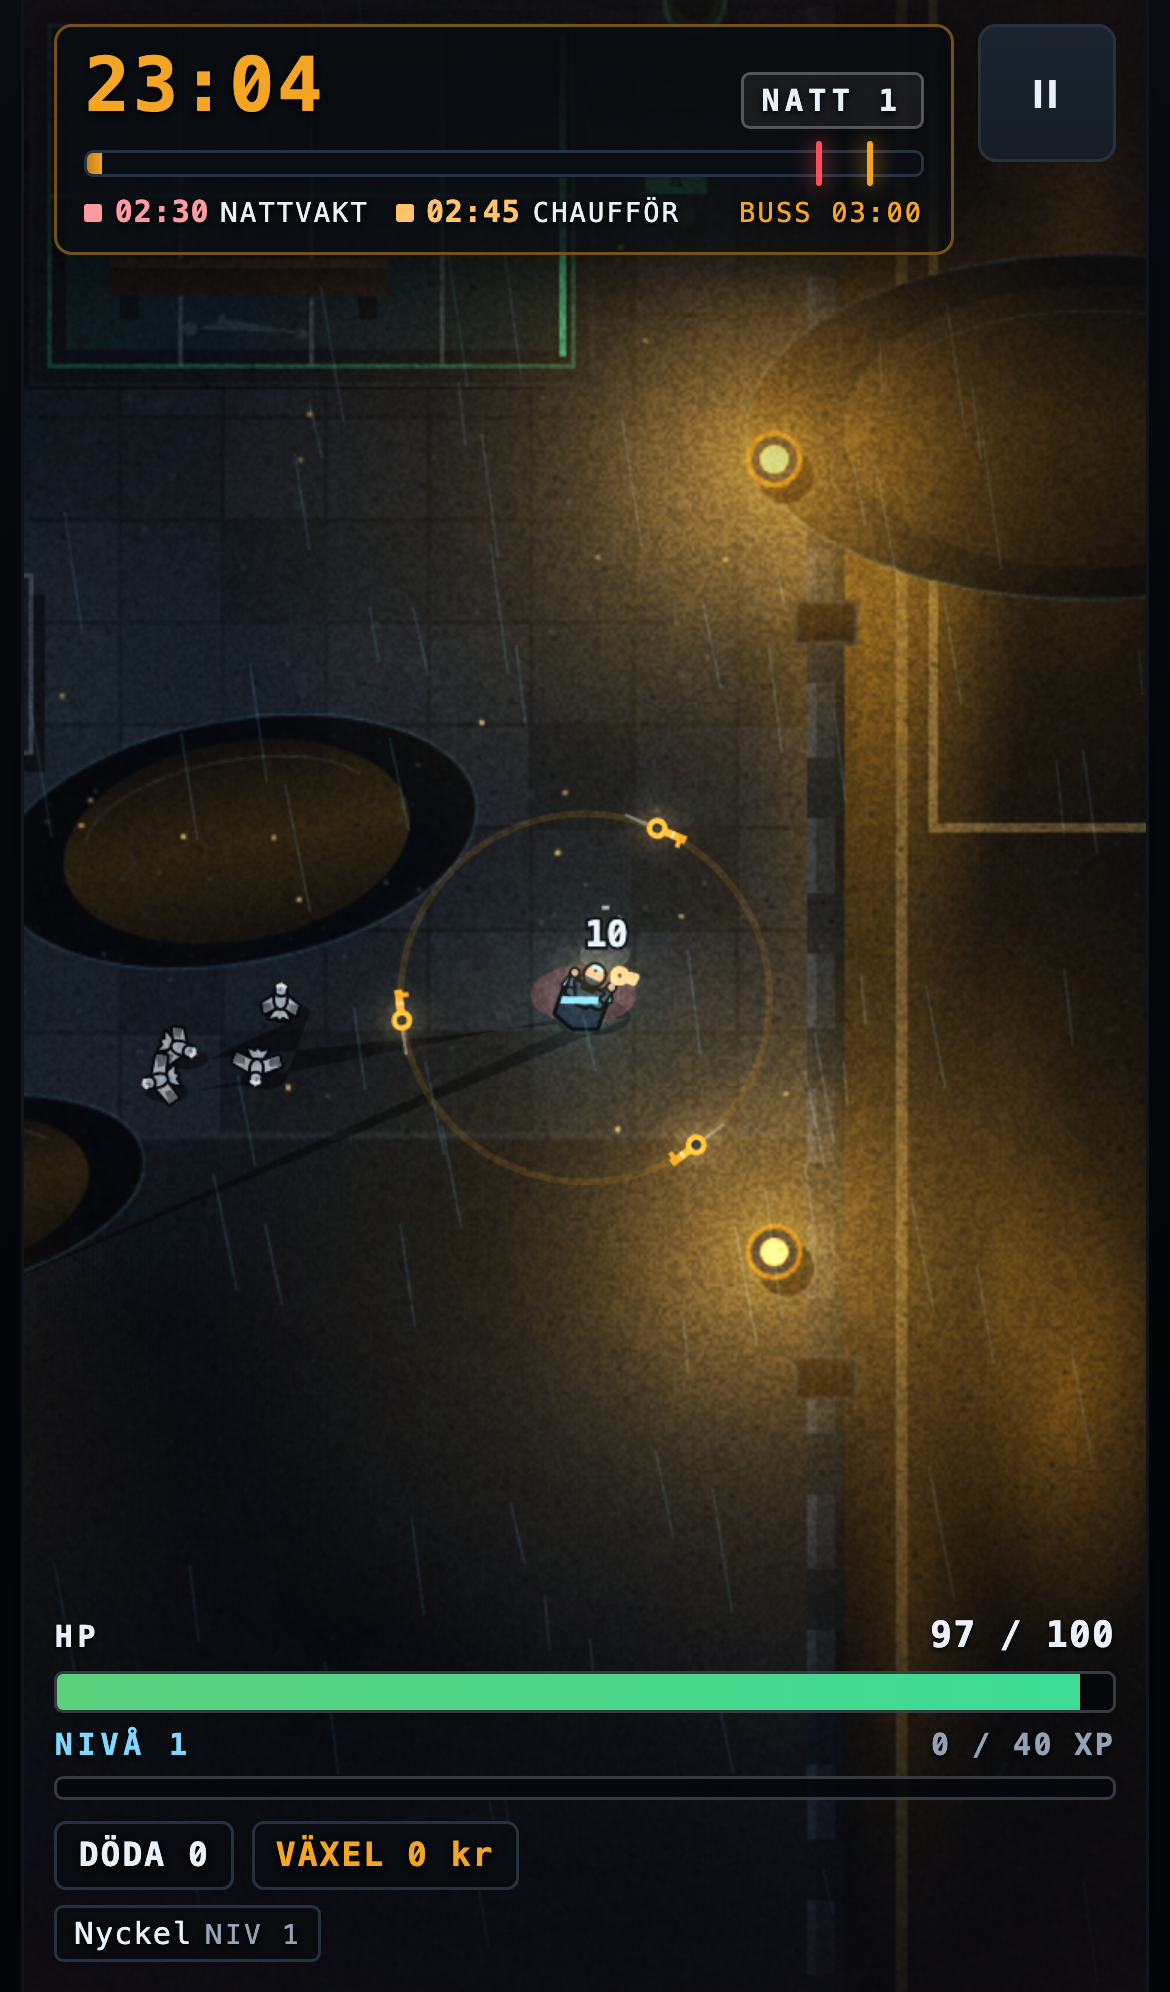
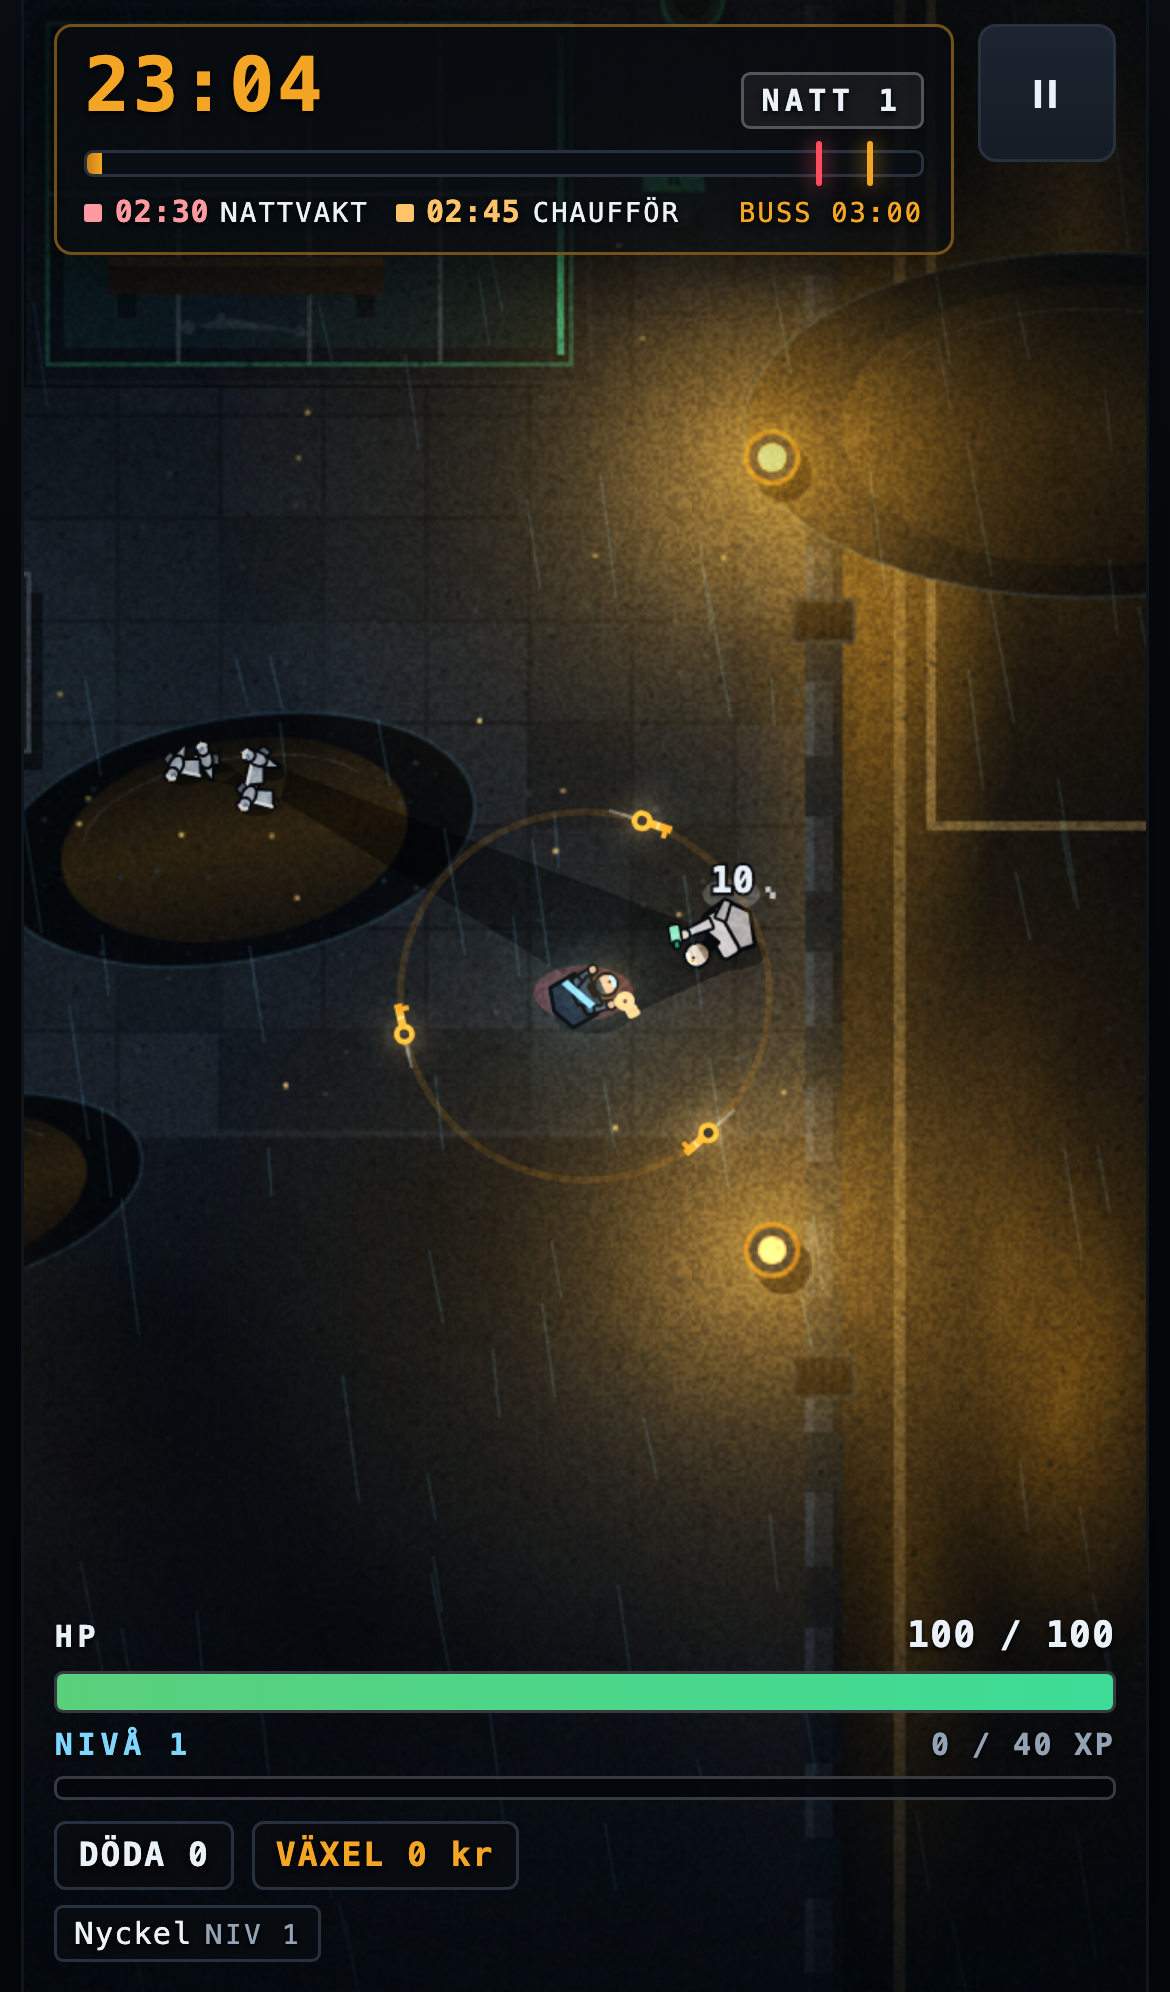
build: multi-stage Dockerfile serving dist via nginx
Replace the Coolify "static" build pack, which never ran a build step and
shipped a container with no dist/ (gitignored) in it.

- Dockerfile: node:22-alpine builds with `npm ci` + `npm run build`, then
  copies only dist/ into nginx:alpine. No node, sources or node_modules in
  the runtime image.
- docker/nginx.conf: SPA fallback, explicit application/manifest+json for
  .webmanifest and image/png for .png, no-cache on sw.js/index.html/manifest,
  immutable caching for fingerprinted /assets/, gzip. Port 80 only, TLS stays
  with Coolify's Traefik.
- .dockerignore: keeps node_modules, dist, .git, screenshots and test output
  out of the build context.

Also swept in by `git add -A`: in-progress render tweak to src/render/entities.ts
and the regenerated screenshots that were already dirty in the tree.

diff --git a/src/render/entities.ts b/src/render/entities.ts
@@ -292,37 +292,39 @@ function drawDuva(ctx: CanvasRenderingContext2D, e: Enemy, d: Draw, flash: boole
   const flap = Math.sin(d.t * 17 + e.phase);
   const up = 1 + flap * 0.22;
 
-  // Notched fan tail.
+  // At an 18px world footprint only one wing can be drawn without the bird
+  // turning into a fan of spikes. A short single-point tail plus one raised
+  // wing and one dark tucked wing gives an asymmetric read: bird, not debris.
   ctx.beginPath();
-  ctx.moveTo(-0.36 * r, -0.2 * r);
-  ctx.lineTo(-0.86 * r, -0.46 * r);
-  ctx.lineTo(-0.74 * r, -0.14 * r);
-  ctx.lineTo(-0.9 * r, 0);
-  ctx.lineTo(-0.74 * r, 0.14 * r);
-  ctx.lineTo(-0.86 * r, 0.46 * r);
-  ctx.lineTo(-0.36 * r, 0.2 * r);
+  ctx.moveTo(-0.4 * r, -0.18 * r);
+  ctx.lineTo(-0.92 * r, 0);
+  ctx.lineTo(-0.4 * r, 0.18 * r);
   ctx.closePath();
   seal(ctx, p.body, p.outline, 1 * inv);
 
-  // Wings: broad, swept back, pointed.
-  for (let s = -1; s <= 1; s += 2) {
-    ctx.beginPath();
-    ctx.moveTo(0.36 * r, s * 0.1 * r);
-    ctx.lineTo(-0.16 * r, s * 1.0 * r * up);
-    ctx.lineTo(-0.62 * r, s * 0.86 * r * up);
-    ctx.lineTo(-0.3 * r, s * 0.16 * r);
-    ctx.closePath();
-    seal(ctx, p.body, p.outline, 1 * inv);
-    // Dark outer third: kills the flat-delta read.
-    ctx.beginPath();
-    ctx.moveTo(-0.1 * r, s * 0.5 * r * up);
-    ctx.lineTo(-0.16 * r, s * 1.0 * r * up);
-    ctx.lineTo(-0.62 * r, s * 0.86 * r * up);
-    ctx.lineTo(-0.4 * r, s * 0.5 * r * up);
-    ctx.closePath();
-    ctx.fillStyle = p.shade;
-    ctx.fill();
-  }
+  // Far wing, tucked and in shadow: small, behind the body.
+  ctx.beginPath();
+  ctx.moveTo(0.3 * r, 0.08 * r);
+  ctx.lineTo(0.02 * r, 0.62 * r);
+  ctx.lineTo(-0.34 * r, 0.5 * r);
+  ctx.lineTo(-0.14 * r, 0.08 * r);
+  ctx.closePath();
+  seal(ctx, p.shade, p.outline, 0.9 * inv);
+
+  // Near wing, raised: one clean wedge with a lit leading edge.
+  ctx.beginPath();
+  ctx.moveTo(0.3 * r, -0.06 * r);
+  ctx.lineTo(0.08 * r, -1.08 * r * up);
+  ctx.lineTo(-0.56 * r, -0.8 * r * up);
+  ctx.lineTo(-0.2 * r, -0.08 * r);
+  ctx.closePath();
+  seal(ctx, p.body, p.outline, 1 * inv);
+  ctx.beginPath();
+  ctx.moveTo(0.3 * r, -0.06 * r);
+  ctx.lineTo(0.08 * r, -1.08 * r * up);
+  ctx.strokeStyle = p.rim;
+  ctx.lineWidth = 1.1 * inv;
+  ctx.stroke();
 
   // Body, then the head, beak and eye.
   ctx.beginPath();
@@ -443,46 +445,45 @@ function drawVaktmastare(
     ctx.restore();
   }
 
-  // Uniform coat: square, wide, with a hard hem.
+  // Uniform coat: wide at the shoulders, hard hem, neck notch. A narrow slab
+  // with a face inside reads as a badge; the shoulder span makes it a person.
   ctx.beginPath();
-  ctx.moveTo(0.34 * r, -0.56 * r);
-  ctx.lineTo(-0.42 * r, -0.66 * r);
-  ctx.lineTo(-0.46 * r, 0.68 * r);
-  ctx.lineTo(0.32 * r, 0.58 * r);
+  ctx.moveTo(0.3 * r, -0.56 * r);
+  ctx.lineTo(-0.52 * r, -0.7 * r);
+  ctx.lineTo(-0.58 * r, 0.68 * r);
+  ctx.lineTo(0.24 * r, 0.6 * r);
   ctx.closePath();
   seal(ctx, p.shell, p.outline, 1.4 * inv);
 
-  // Shoulder bar and arms.
-  plate(ctx, -0.14 * r, -0.72 * r, 0.42 * r, 1.44 * r, 0.1 * r, p.body, p.outline, 1.2 * inv);
-  const by = winding ? -0.82 * r : 0.6 * r;
-  taper(ctx, 0.1 * r, 0.5 * r, 0.56 * r, by, 0.13 * r, 0.08 * r, p.body, p.outline, 1 * inv);
-  taper(ctx, 0.08 * r, -0.5 * r, 0.42 * r, -0.6 * r, 0.12 * r, 0.07 * r, p.body, p.outline, 1 * inv);
+  // Shoulder bar, then two arms: broom arm forward, other arm at the side.
+  plate(ctx, -0.2 * r, -0.76 * r, 0.5 * r, 1.52 * r, 0.12 * r, p.body, p.outline, 1.1 * inv);
+  const by = winding ? -0.8 * r : 0.44 * r;
+  taper(ctx, 0.14 * r, 0.44 * r, 0.64 * r, by, 0.15 * r, 0.09 * r, p.body, p.outline, 1 * inv);
+  taper(ctx, 0.1 * r, -0.46 * r, 0.42 * r, -0.74 * r, 0.13 * r, 0.08 * r, p.body, p.outline, 1 * inv);
 
-  // Hi-vis bands across the chest: the type signature.
-  plate(ctx, -0.28 * r, -0.36 * r, 0.5 * r, 0.14 * r, 0.03 * r, p.kit, p.outline, 0.7 * inv);
-  plate(ctx, -0.28 * r, 0.22 * r, 0.5 * r, 0.14 * r, 0.03 * r, p.kit, p.outline, 0.7 * inv);
+  // Hi-vis bands across the back: the type signature, read as two bars.
+  plate(ctx, -0.44 * r, -0.34 * r, 0.46 * r, 0.12 * r, 0.03 * r, p.kit, p.outline, 0.6 * inv);
+  plate(ctx, -0.44 * r, 0.2 * r, 0.46 * r, 0.12 * r, 0.03 * r, p.kit, p.outline, 0.6 * inv);
   // Belt.
-  plate(ctx, -0.34 * r, 0.6 * r, 0.62 * r, 0.09 * r, 0.02 * r, p.shade, p.outline, 0);
+  plate(ctx, -0.5 * r, 0.56 * r, 0.66 * r, 0.09 * r, 0.02 * r, p.shade, p.outline, 0);
 
-  // Peaked cap behind the face, visor over it.
-  discSolid(ctx, 0.4 * r, 0, 0.3 * r, p.hatDeep, p.outline, 1.1 * inv);
-  headMass(ctx, 0.58 * r, 0, 0.23 * r, p, p.hatDeep, p.detail, inv);
+  // Peaked cap: crown from headMass, peak projecting past the head.
+  headMass(ctx, 0.8 * r, 0, 0.26 * r, p, p.hatDeep, p.detail, inv);
   ctx.beginPath();
-  ctx.moveTo(0.58 * r, -0.18 * r);
-  ctx.lineTo(0.92 * r, -0.03 * r);
-  ctx.lineTo(0.92 * r, 0.05 * r);
-  ctx.lineTo(0.58 * r, 0.16 * r);
+  ctx.moveTo(0.98 * r, -0.2 * r);
+  ctx.lineTo(1.3 * r, -0.04 * r);
+  ctx.lineTo(1.3 * r, 0.05 * r);
+  ctx.lineTo(0.98 * r, 0.16 * r);
   ctx.closePath();
-  ctx.fillStyle = p.hatDeep;
-  ctx.fill();
+  seal(ctx, p.hatDeep, p.outline, 0.9 * inv);
 
-  // Broom, out front or lifted.
-  taper(ctx, 0.54 * r, by, 1.66 * r, by * 1.1, 0.04 * r, 0.035 * r, PAL.steel, p.outline, 0.5 * inv);
+  // Broom, from the hand out front, or lifted for the throw.
+  taper(ctx, 0.62 * r, by, 1.7 * r, by * 1.08, 0.045 * r, 0.038 * r, PAL.steel, p.outline, 0.5 * inv);
   ctx.beginPath();
-  ctx.moveTo(1.6 * r, by * 1.1 - 0.22 * r);
-  ctx.lineTo(1.94 * r, by * 1.1 - 0.06 * r);
-  ctx.lineTo(1.94 * r, by * 1.1 + 0.2 * r);
-  ctx.lineTo(1.6 * r, by * 1.1 + 0.28 * r);
+  ctx.moveTo(1.64 * r, by * 1.08 - 0.24 * r);
+  ctx.lineTo(2.0 * r, by * 1.08 - 0.06 * r);
+  ctx.lineTo(2.0 * r, by * 1.08 + 0.22 * r);
+  ctx.lineTo(1.64 * r, by * 1.08 + 0.3 * r);
   ctx.closePath();
   seal(ctx, p.kit, p.outline, 0.9 * inv);
 }
@@ -1024,57 +1025,51 @@ function drawPensionaren(
 ): void {
   const inv = d.inv;
 
-  // Overcoat: round, heavy, hem dragged back.
+  // Overcoat: hunched egg, hem dragged back. Deliberately narrower than a disc:
+  // a round mass with a head inside it reads as a coin/medallion, so the coat
+  // stops well short and the head, arms and stick finish the silhouette.
   ctx.beginPath();
-  ctx.ellipse(-0.14 * r, 0, 0.82 * r, 0.8 * r, 0, 0, TAU);
+  ctx.ellipse(-0.24 * r, 0, 0.6 * r, 0.62 * r, 0, 0, TAU);
   seal(ctx, p.shell, p.outline, 1.5 * inv);
-  // Belly panel, lighter: the coat is a body, not a disc.
+  // Back panel, lighter: the coat is a body, not a flat disc.
   ctx.beginPath();
-  ctx.ellipse(0.14 * r, 0, 0.5 * r, 0.56 * r, 0, 0, TAU);
+  ctx.ellipse(-0.3 * r, 0, 0.42 * r, 0.46 * r, 0, 0, TAU);
   ctx.fillStyle = p.body;
   ctx.fill();
-  // Rim on the leading edge of the belly, before the arms.
-  ctx.beginPath();
-  ctx.arc(0.14 * r, 0, 0.52 * r, -1.0, 1.0);
-  ctx.strokeStyle = p.rim;
-  ctx.lineWidth = 1.3 * inv;
-  ctx.stroke();
 
-  // Shoulder bar and short thick arms.
-  plate(ctx, -0.1 * r, -0.52 * r, 0.36 * r, 1.04 * r, 0.1 * r, p.body, p.outline, 1.2 * inv);
-  taper(ctx, 0.12 * r, -0.44 * r, 0.5 * r, -0.56 * r, 0.13 * r, 0.08 * r, p.body, p.outline, 0.9 * inv);
-  taper(ctx, 0.12 * r, 0.44 * r, 0.52 * r, 0.56 * r, 0.13 * r, 0.08 * r, p.body, p.outline, 0.9 * inv);
+  // Shoulder bar and short thick arms reaching past the coat edge.
+  plate(ctx, -0.16 * r, -0.5 * r, 0.34 * r, 1.0 * r, 0.1 * r, p.body, p.outline, 1.1 * inv);
+  taper(ctx, 0.04 * r, -0.42 * r, 0.58 * r, -0.44 * r, 0.14 * r, 0.09 * r, p.body, p.outline, 0.9 * inv);
+  taper(ctx, 0.04 * r, 0.42 * r, 0.66 * r, 0.5 * r, 0.14 * r, 0.09 * r, p.body, p.outline, 0.9 * inv);
 
-  // Scarf: accent band around the neck, the one accent element.
+  // Scarf: accent band at the collar, tucked behind the head.
   ctx.beginPath();
-  ctx.moveTo(0.22 * r, -0.44 * r);
-  ctx.quadraticCurveTo(0.52 * r, 0, 0.22 * r, 0.44 * r);
-  ctx.lineTo(0.06 * r, 0.4 * r);
-  ctx.quadraticCurveTo(0.36 * r, 0, 0.06 * r, -0.4 * r);
+  ctx.moveTo(0.24 * r, -0.32 * r);
+  ctx.quadraticCurveTo(0.46 * r, 0, 0.24 * r, 0.32 * r);
+  ctx.lineTo(0.08 * r, 0.28 * r);
+  ctx.quadraticCurveTo(0.3 * r, 0, 0.08 * r, -0.28 * r);
   ctx.closePath();
   ctx.fillStyle = art.accent;
   ctx.fill();
 
-  // Neck gap, then the head.
-  taper(ctx, 0.2 * r, 0, 0.44 * r, -0.02 * r, 0.14 * r, 0.12 * r, p.outline, p.outline, 0);
-  headMass(ctx, 0.6 * r, -0.02 * r, 0.26 * r, p, p.hat, p.detail, inv);
+  // Neck gap, then the head out past the coat line.
+  taper(ctx, 0.26 * r, 0, 0.48 * r, -0.02 * r, 0.13 * r, 0.12 * r, p.outline, p.outline, 0);
+  headMass(ctx, 0.68 * r, -0.02 * r, 0.27 * r, p, p.hat, p.detail, inv);
 
-  // Flat cap: crown behind, wide brim out front.
+  // Flat cap: the crown is the headMass crown; the peak projects past the head
+  // so it never covers the lit face. A big brim drawn over the face turns the
+  // head into a pale semicircle under a dark beak.
   ctx.beginPath();
-  ctx.arc(0.46 * r, -0.06 * r, 0.34 * r, Math.PI * 0.86, Math.PI * 1.94);
+  ctx.moveTo(0.88 * r, -0.18 * r);
+  ctx.lineTo(1.26 * r, -0.04 * r);
+  ctx.lineTo(1.26 * r, 0.07 * r);
+  ctx.lineTo(0.88 * r, 0.12 * r);
   ctx.closePath();
-  seal(ctx, p.hat, p.outline, 1.1 * inv);
-  ctx.beginPath();
-  ctx.moveTo(0.5 * r, -0.28 * r);
-  ctx.lineTo(0.96 * r, -0.1 * r);
-  ctx.lineTo(0.96 * r, 0.04 * r);
-  ctx.lineTo(0.5 * r, 0.04 * r);
-  ctx.closePath();
-  seal(ctx, p.hatDeep, p.outline, 1 * inv);
+  seal(ctx, p.hatDeep, p.outline, 0.9 * inv);
 
-  // Walking stick planted forward.
-  taper(ctx, 0.44 * r, 0.54 * r, 1.2 * r, 0.86 * r, 0.05 * r, 0.045 * r, p.kit, p.outline, 0.5 * inv);
-  taper(ctx, 1.2 * r, 0.86 * r, 1.1 * r, 0.68 * r, 0.045 * r, 0.04 * r, p.kit, p.outline, 0.4 * inv);
+  // Walking stick planted forward, from the front hand.
+  taper(ctx, 0.6 * r, 0.54 * r, 1.32 * r, 0.94 * r, 0.05 * r, 0.045 * r, p.kit, p.outline, 0.5 * inv);
+  taper(ctx, 1.32 * r, 0.94 * r, 1.22 * r, 0.76 * r, 0.045 * r, 0.04 * r, p.kit, p.outline, 0.4 * inv);
 }
 
 /**
